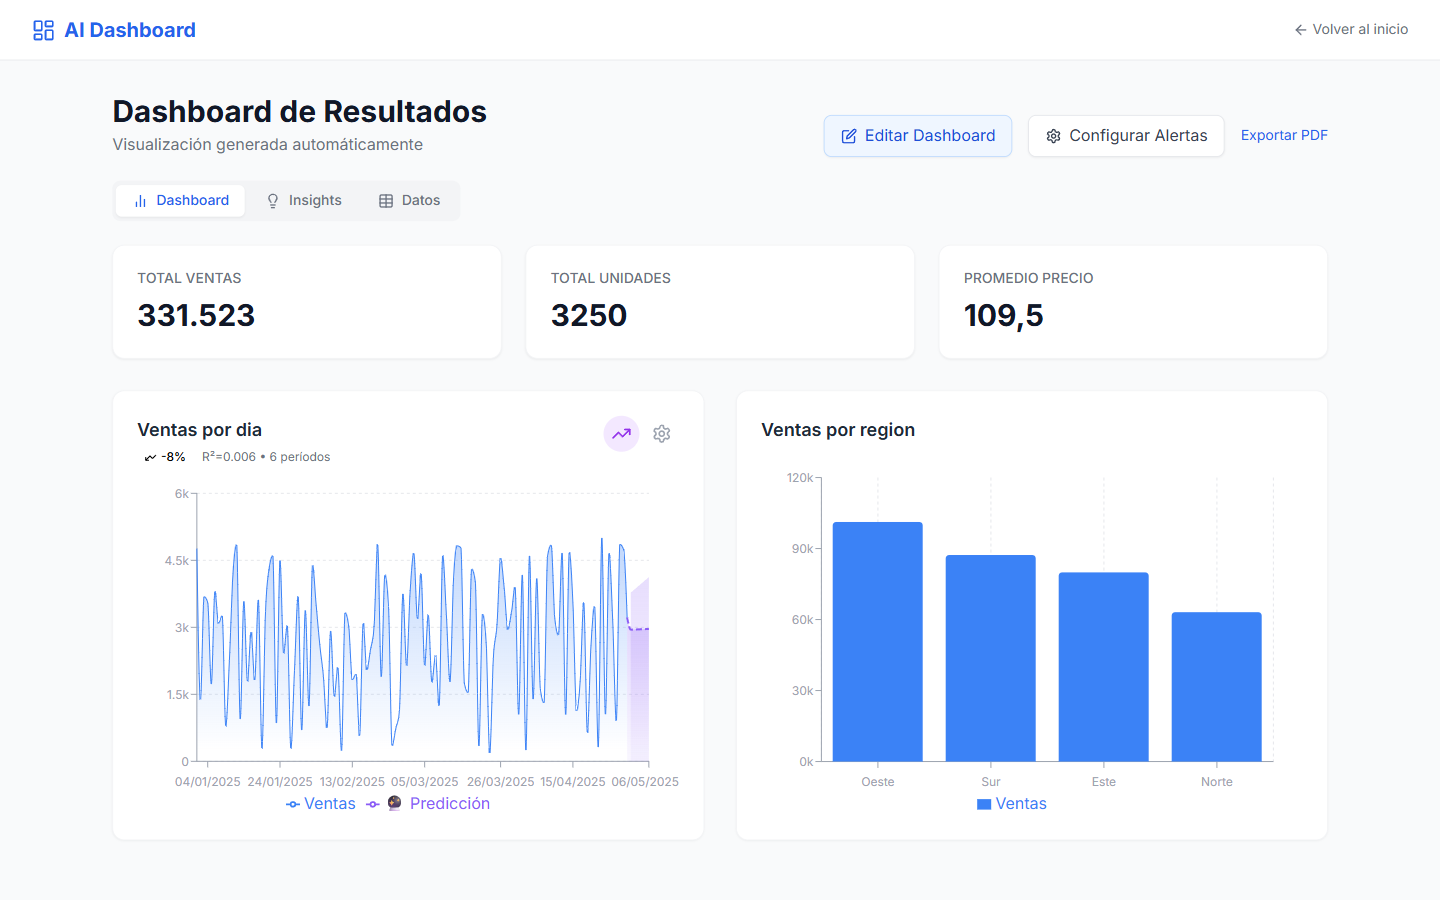
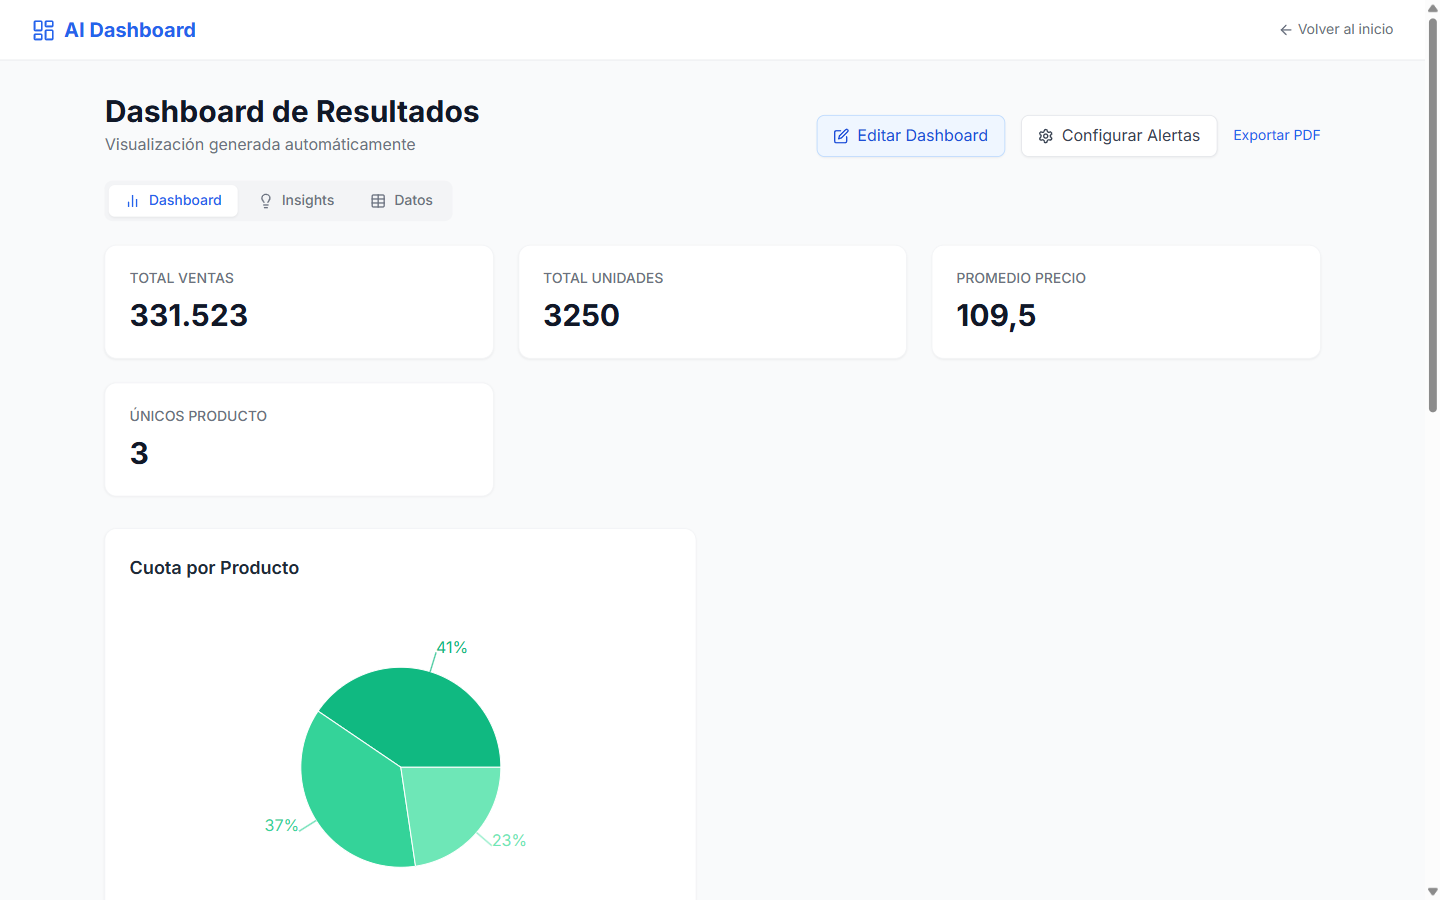
docs: hero con dashboard completo de 4 KPIs y 4 graficos, GIF de demo (color, tipo y drag & drop) y insights sin duplicar

diff --git a/README.md b/README.md
@@ -65,10 +65,7 @@ La IA analiza tus columnas (fechas, numéricas, categóricas) y te propone los g
 
 La app detecta por sí sola qué está pasando en tus datos: resúmenes de métricas, tendencias al alza o la baja, líderes por categoría, mejores y peores períodos. Todo priorizado por importancia y exportable a PDF.
 
-| | |
-|---|---|
-| ![Panel de insights](docs/screenshots/06-insights.png) | ![Reporte completo de insights](docs/screenshots/14-insights-reporte.png) |
-| **Panel de insights** — hallazgos clasificados y cuantificados. | **Reporte ejecutivo** — tabla completa con prioridades, exportable. |
+![Panel de insights con hallazgos clasificados](docs/screenshots/06-insights.png)
 
 ### Predicciones de futuro
 
@@ -76,14 +73,16 @@ En cualquier gráfico temporal, pulsa *Mostrar predicción* y la app proyecta lo
 
 ![Predicción de ventas](docs/screenshots/03-forecast.png)
 
-### Personaliza cada gráfico
+### Personaliza cada gráfico y ordénalo a tu gusto
 
-Cada tarjeta tiene su menú: cambia el tipo (barras, líneas, área, circular), la orientación y el tema de color. La configuración se recuerda por gráfico y por dashboard.
+Cada tarjeta tiene su menú: cambia el tipo (barras, líneas, área, circular), la orientación y el tema de color. Y si quieres priorizar un gráfico, arrástralo a otra posición: el orden se guarda solo. La configuración se recuerda por gráfico y por dashboard.
+
+![Demo: cambio de color, tipo de gráfico y reordenación por arrastre](docs/screenshots/demo.gif)
 
 | | |
 |---|---|
-| ![Menú de configuración del gráfico](docs/screenshots/04-config-grafico.png) | ![Dashboard con gráfico personalizado](docs/screenshots/05-dashboard-personalizado.png) |
-| **Menú de cada gráfico** — tipo, orientación y tema de color. | **Resultado al instante** — área multicolor en el mismo dashboard. |
+| ![Menú de configuración del gráfico](docs/screenshots/04-config-grafico.png) | ![Dashboard con gráficos personalizados](docs/screenshots/05-dashboard-personalizado.png) |
+| **Menú de cada gráfico** — tipo, orientación y tema de color. | **Cada gráfico con su estilo** — área, circular, barras horizontales... |
 
 ## Ponerlo en marcha (2 minutos)
 
